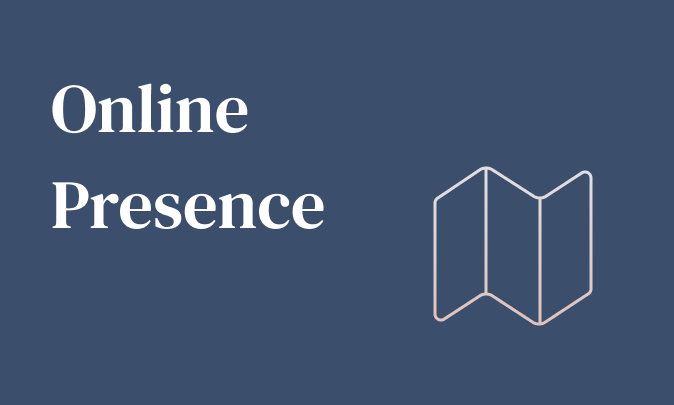
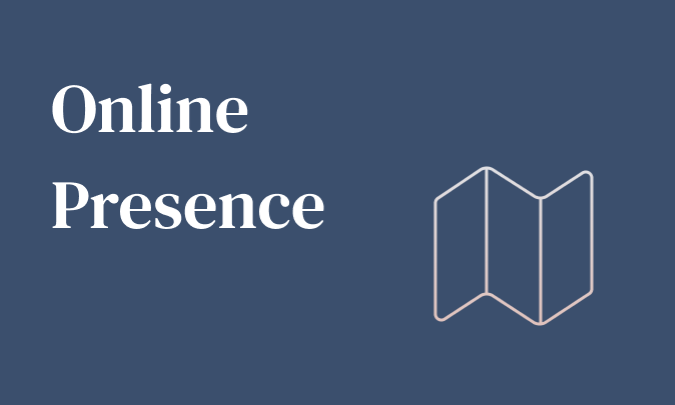
1px bs fix

Changed region(s): [[0.3739, 0.5037, 0.405, 0.563], [0.2493, 0.2667, 0.2804, 0.3259], [0.7166, 0.4148, 0.7478, 0.4444]]

diff --git a/_includes/portfolio.html b/_includes/portfolio.html
@@ -25,7 +25,7 @@
                                 Category
                             </div>
                             <div class="project-name">
-                                Website Email
+                                Website &amp; Email
                             </div>
                         </div>
                     </div>
@@ -40,7 +40,7 @@
                                 Category
                             </div>
                             <div class="project-name">
-                                Networking Infrastructure
+                                Networking &amp; Infrastructure
                             </div>
                         </div>
                     </div>
